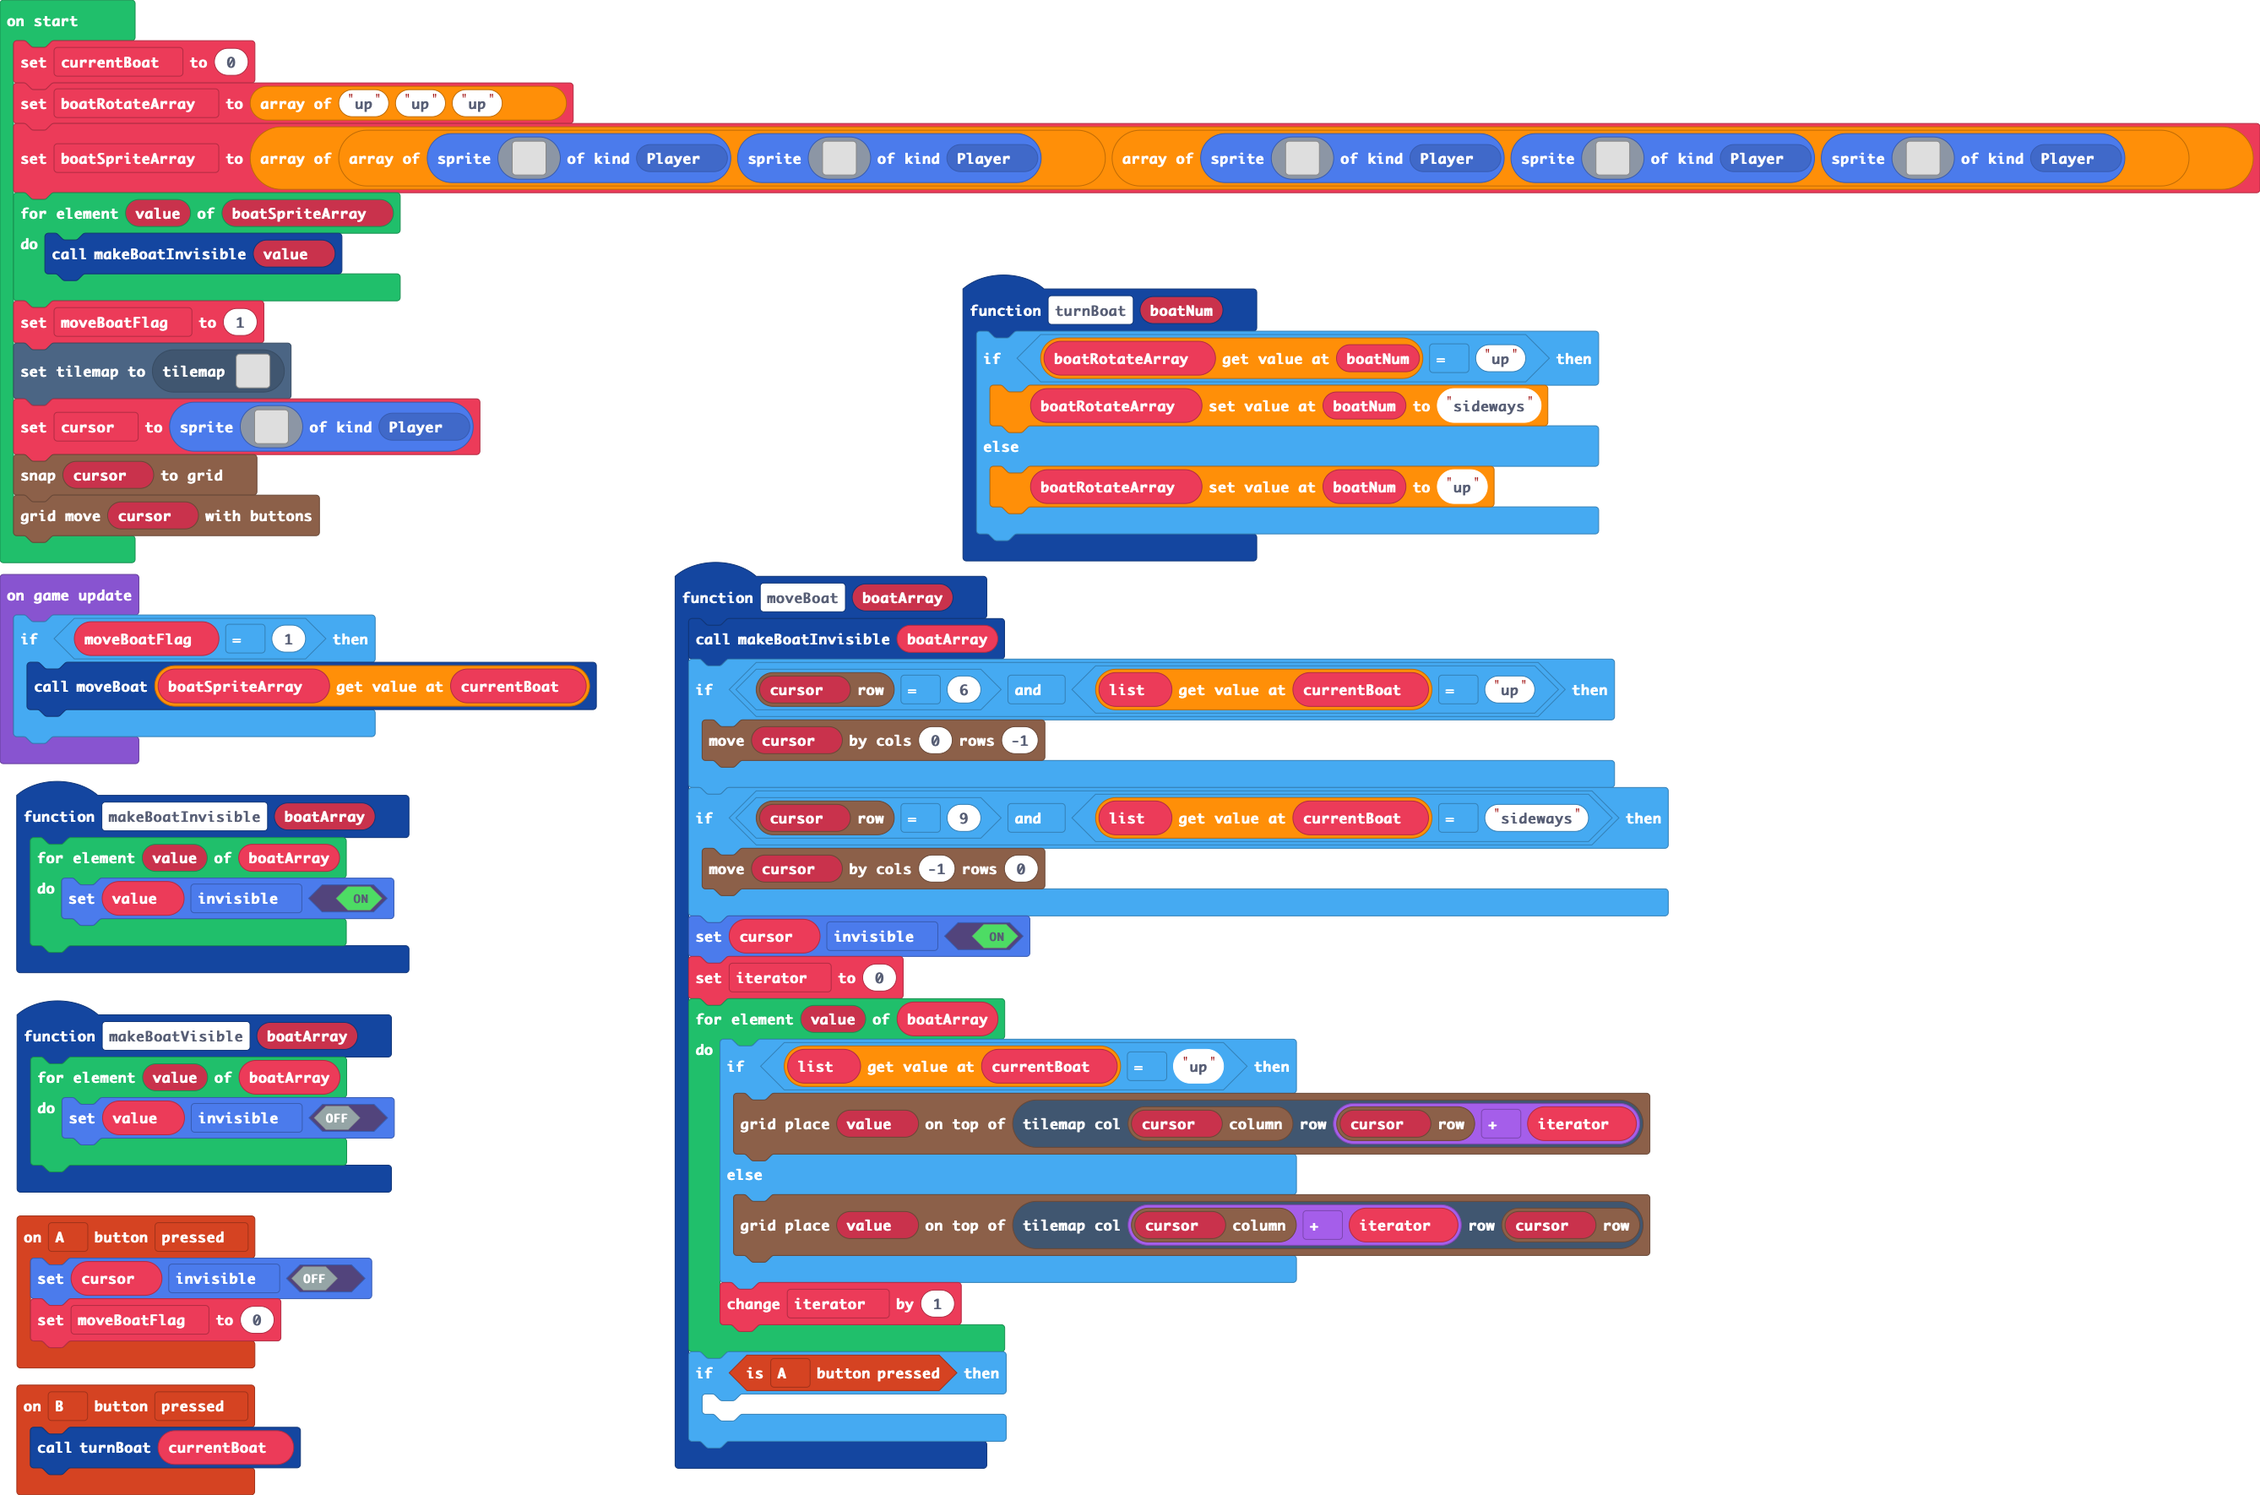
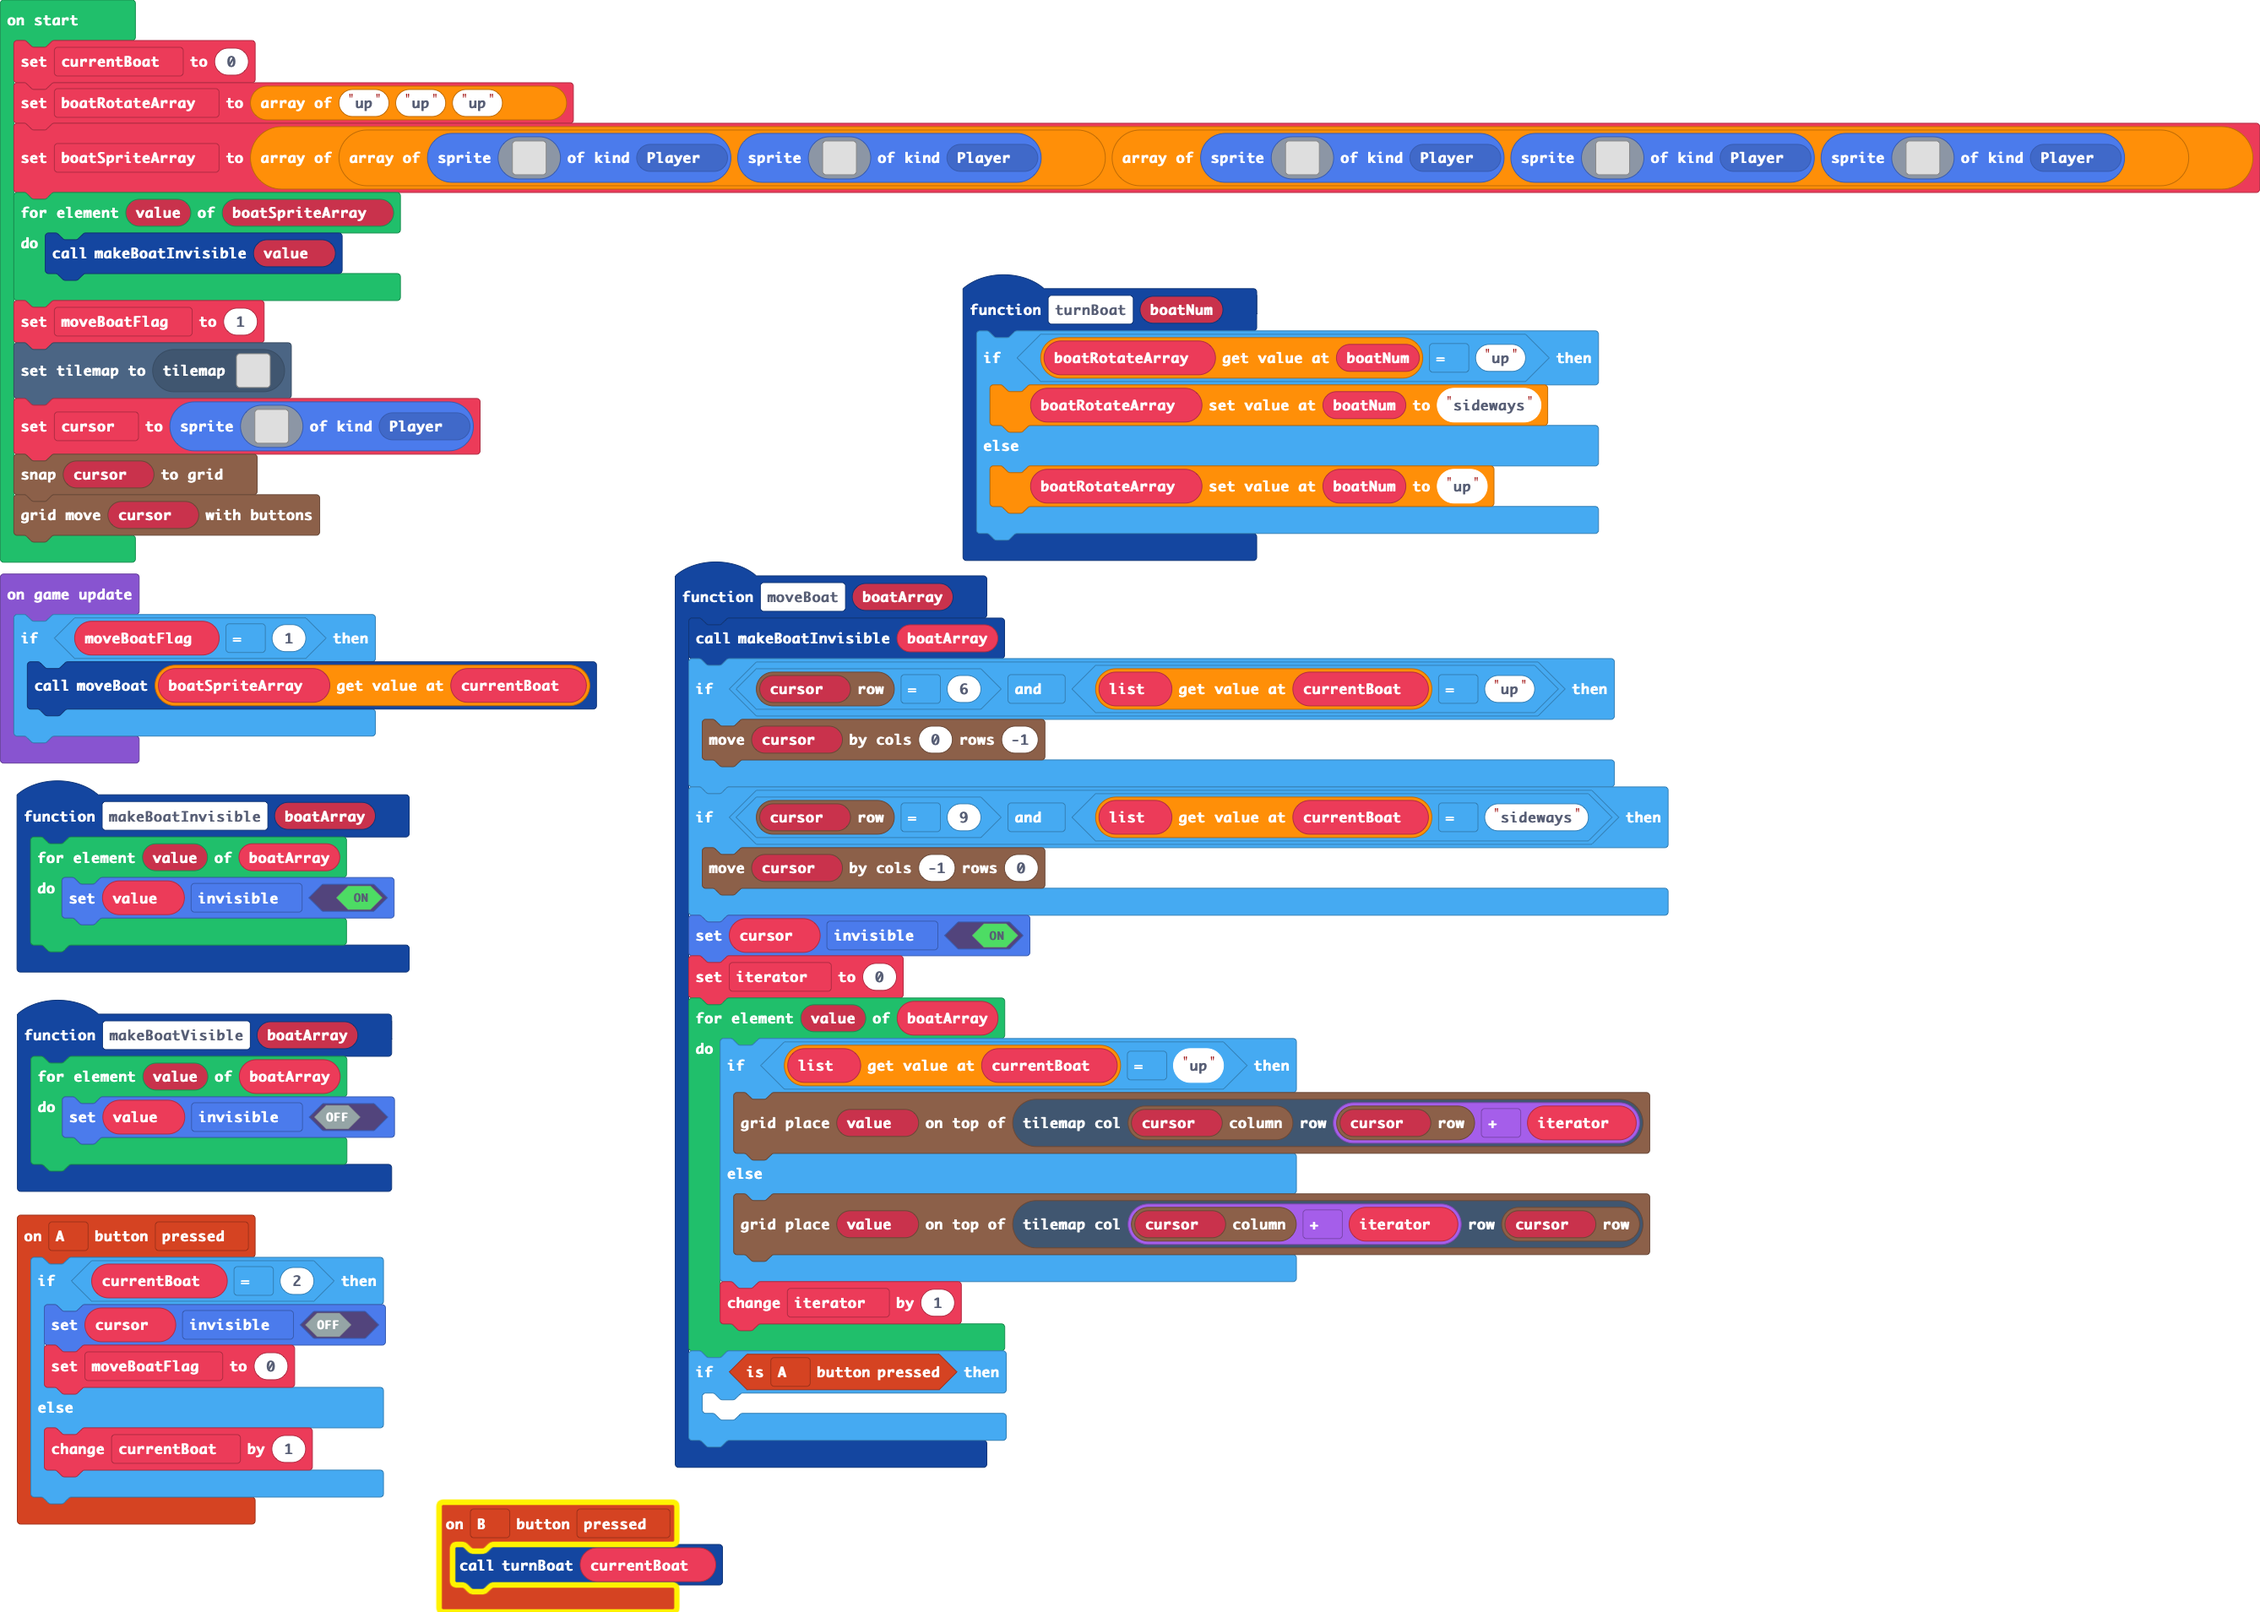
we can move the boat "1"

diff --git a/main.ts b/main.ts
@@ -7,8 +7,12 @@ function makeBoatVisible (boatArray: Sprite[]) {
     }
 }
 controller.A.onEvent(ControllerButtonEvent.Pressed, function () {
-    cursor.setFlag(SpriteFlag.Invisible, false)
-    moveBoatFlag = 0
+    if (currentBoat == 2) {
+        cursor.setFlag(SpriteFlag.Invisible, false)
+        moveBoatFlag = 0
+    } else {
+        currentBoat += 1
+    }
 })
 function moveBoat (boatArray: any[]) {
     let list: string[] = []
